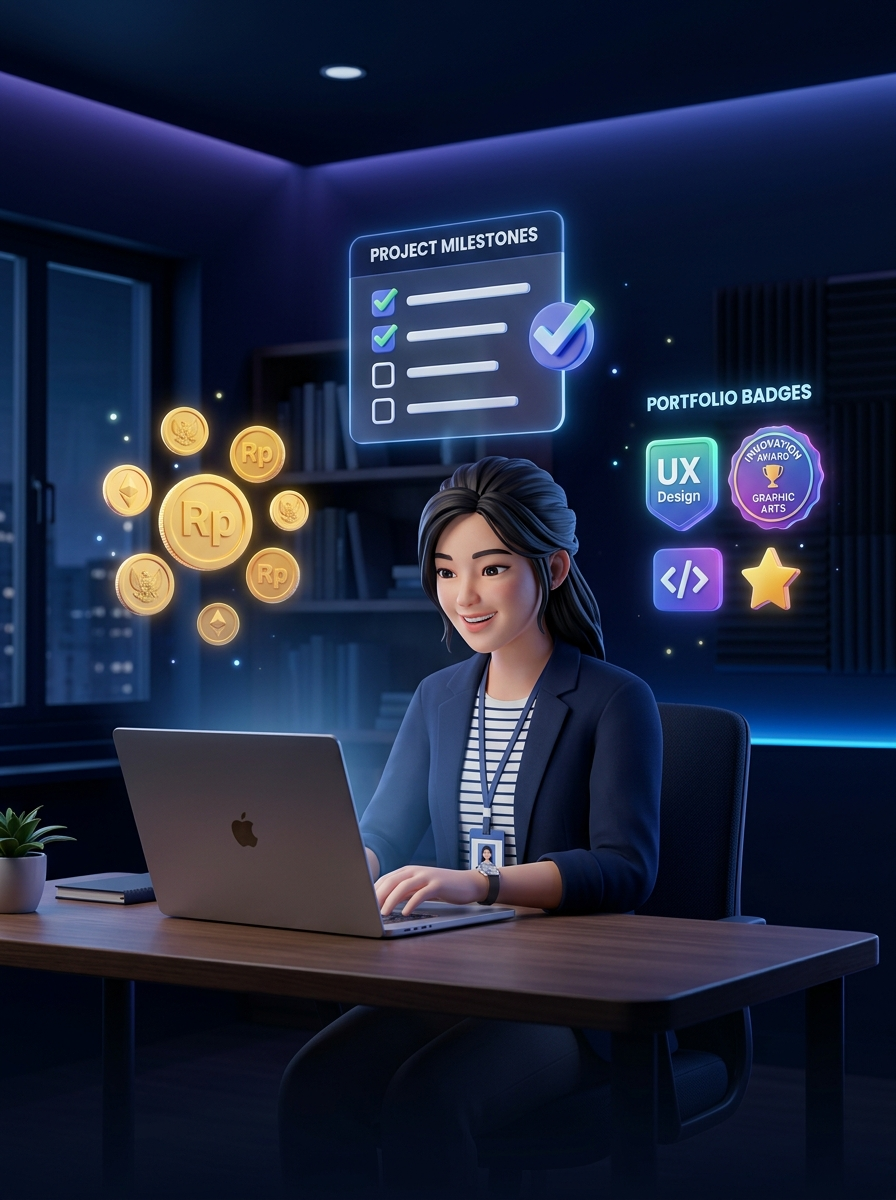
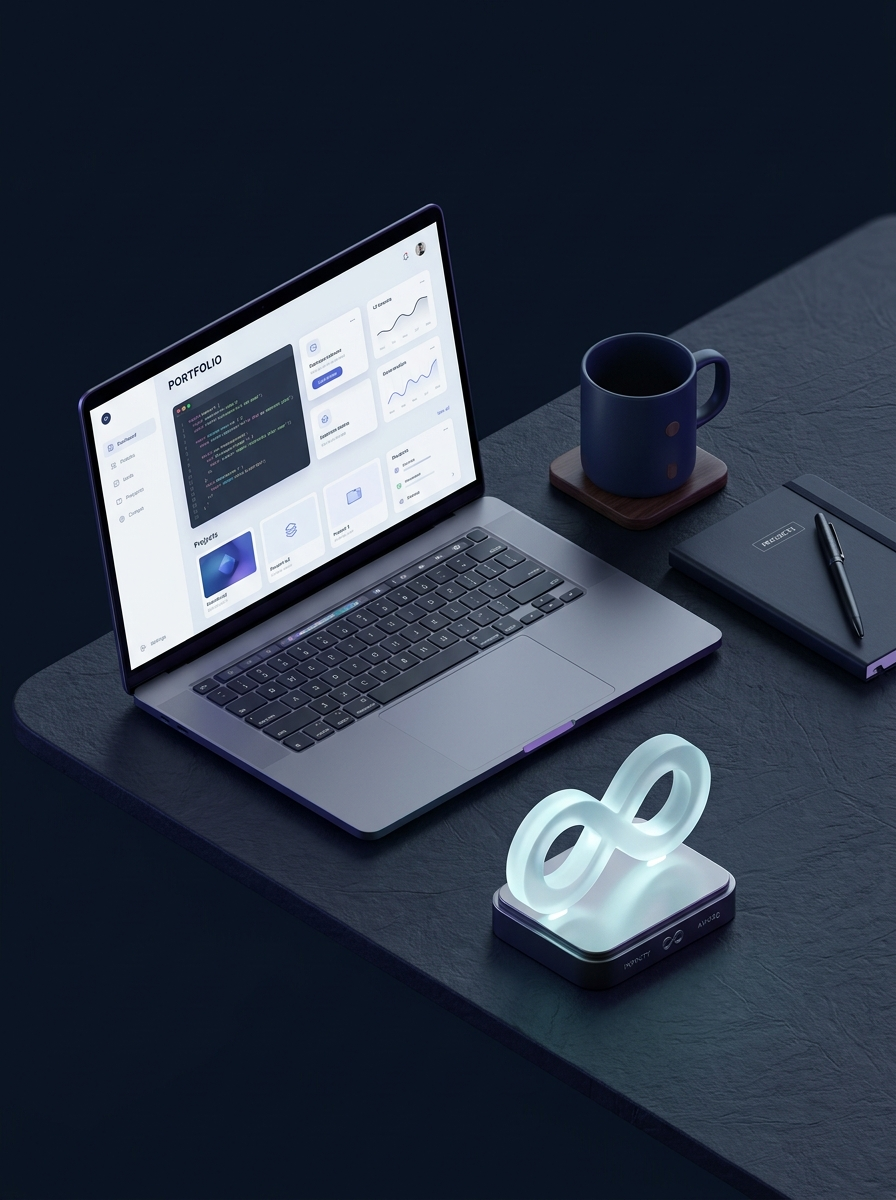
fix(onboarding): eliminate AI slop with minimalist 3D product renders and human-centric copywriting

diff --git a/mobile/src/screens/onboarding/OnboardingScreen.jsx b/mobile/src/screens/onboarding/OnboardingScreen.jsx
@@ -18,13 +18,11 @@ const { width } = Dimensions.get("window");
 const slides = [
   {
     id: "1",
-    badge: "Platform Mahasiswa #1",
-    title: "Hasilkan Uang Nyata\nSelagi Kuliah",
+    badge: "Karier & Portofolio",
+    title: "Bangun Portofolio,\nRaih Honor Kuliah",
     subtitle:
-      "Gabung ribuan mahasiswa yang sudah mengerjakan proyek UMKM nyata, bangun portofolio dan raih honor langsung dari laptop-mu.",
+      "Kerjakan proyek digital nyata dari UMKM lokal. Setiap hasil kerjamu terbit resmi sebagai bukti kompetensi untuk melamar kerja.",
     image: require("../../../assets/onboarding_1.jpg"),
-    bgColor: "#091424", // Deep Navy Slate
-    accentColor: "#4F46E5", // Indigo
     bgColor: "#091424", // Deep Midnight Navy
     accentColor: "#4F46E5", // Brand Indigo
     badgeBg: "rgba(79, 70, 229, 0.22)",
@@ -33,36 +31,26 @@ const slides = [
   },
   {
     id: "2",
-    badge: "Proteksi Pembayaran",
-    title: "Honormu Aman,\n100% Terjamin",
+    badge: "Garansi Rekening Bersama",
+    title: "Honor Aman,\nPasti Dibayar",
     subtitle:
-      "Dana proyek dikunci di rekening bersama escrow sebelum kerjaan dimulai. Selesai dan disetujui, langsung cair ke dompetmu.",
+      "Klien mendepositkan dana ke rekening bersama Makarya sebelum proyek berjalan. Begitu tugas disetujui, dana langsung cair ke rekeningmu.",
     image: require("../../../assets/onboarding_2.jpg"),
-    bgColor: "#061A14", // Deep Forest Emerald
-    accentColor: "#059669", // Emerald
-    badgeBg: "rgba(5, 150, 105, 0.22)",
-    badgeBorder: "rgba(52, 211, 153, 0.4)",
-    badgeText: "#6EE7B7",
-    bgColor: "#091424", // Deep Midnight Navy (Unified)
-    accentColor: "#4F46E5", // Brand Indigo (Unified)
+    bgColor: "#091424", // Deep Midnight Navy
+    accentColor: "#4F46E5", // Brand Indigo
     badgeBg: "rgba(79, 70, 229, 0.22)",
     badgeBorder: "rgba(129, 140, 248, 0.4)",
     badgeText: "#A5B4FC",
   },
   {
     id: "3",
-    badge: "Kolaborasi Real-Time",
-    title: "Pantau Proyek\ndari Genggamanmu",
+    badge: "Ruang Kerja Digital",
+    title: "Lacak Target &\nDiskusi Proyek",
     subtitle:
-      "Kirim proposal, lacak milestone, chat langsung dengan klien UMKM dalam satu platform terpadu.",
+      "Kirim proposal, pantau tenggat waktu per milestone, dan koordinasi langsung dengan pemilik usaha tanpa repot berganti aplikasi.",
     image: require("../../../assets/onboarding_3.jpg"),
-    bgColor: "#140D26", // Deep Violet Night
-    accentColor: "#7C3AED", // Violet
-    badgeBg: "rgba(124, 58, 237, 0.22)",
-    badgeBorder: "rgba(167, 139, 250, 0.4)",
-    badgeText: "#C4B5FD",
-    bgColor: "#091424", // Deep Midnight Navy (Unified)
-    accentColor: "#4F46E5", // Brand Indigo (Unified)
+    bgColor: "#091424", // Deep Midnight Navy
+    accentColor: "#4F46E5", // Brand Indigo
     badgeBg: "rgba(79, 70, 229, 0.22)",
     badgeBorder: "rgba(129, 140, 248, 0.4)",
     badgeText: "#A5B4FC",

diff --git a/mobile/src/screens/auth/RegisterScreen.jsx b/mobile/src/screens/auth/RegisterScreen.jsx
@@ -106,7 +106,11 @@ export function RegisterScreen({ navigation }) {
 
   return (
     <View style={s.screen}>
-      <StatusBar translucent backgroundColor="transparent" barStyle="light-content" />
+      <StatusBar
+        translucent
+        backgroundColor="transparent"
+        barStyle="light-content"
+      />
 
       {/* 1. TOP HERO IMAGE & AMBIENT GLOW */}
       <View style={[s.heroSection, { height: height * 0.38 }]}>
@@ -120,12 +124,15 @@ export function RegisterScreen({ navigation }) {
         <View style={s.heroContent}>
           <View style={s.heroBadge}>
             <ShieldCheck size={11} color="#6EE7B7" />
-            <Text style={s.heroBadgeText}>Akses Talenta Kampus Terverifikasi</Text>
+            <Text style={s.heroBadgeText}>
+              Akses Talenta Kampus Terverifikasi
+            </Text>
           </View>
 
           <Text style={s.welcomeText}>Daftar Akun UMKM</Text>
           <Text style={s.subtitle}>
-            Pasang proyek dan temukan mahasiswa bertalenta terbaik untuk bisnis Anda.
+            Pasang proyek dan temukan mahasiswa bertalenta terbaik untuk bisnis
+            Anda.
           </Text>
         </View>
       </View>
@@ -149,7 +156,14 @@ export function RegisterScreen({ navigation }) {
 
             {/* Bidang Industri Chips */}
             <View style={{ marginBottom: 16 }}>
-              <Text style={{ fontFamily: FONTS.bodyBold, fontSize: 12, color: COLORS.textDark, marginBottom: 8 }}>
+              <Text
+                style={{
+                  fontFamily: FONTS.bodyBold,
+                  fontSize: 12,
+                  color: COLORS.textDark,
+                  marginBottom: 8,
+                }}
+              >
                 Bidang Industri
               </Text>
               <ScrollView
@@ -182,8 +196,15 @@ export function RegisterScreen({ navigation }) {
                     >
                       <Text
                         style={[
-                          { fontFamily: FONTS.bodyMedium, fontSize: 12, color: "#64748B" },
-                          selected && { fontFamily: FONTS.bodyBold, color: "#FFFFFF" },
+                          {
+                            fontFamily: FONTS.bodyMedium,
+                            fontSize: 12,
+                            color: "#64748B",
+                          },
+                          selected && {
+                            fontFamily: FONTS.bodyBold,
+                            color: "#FFFFFF",
+                          },
                         ]}
                       >
                         {ind}
